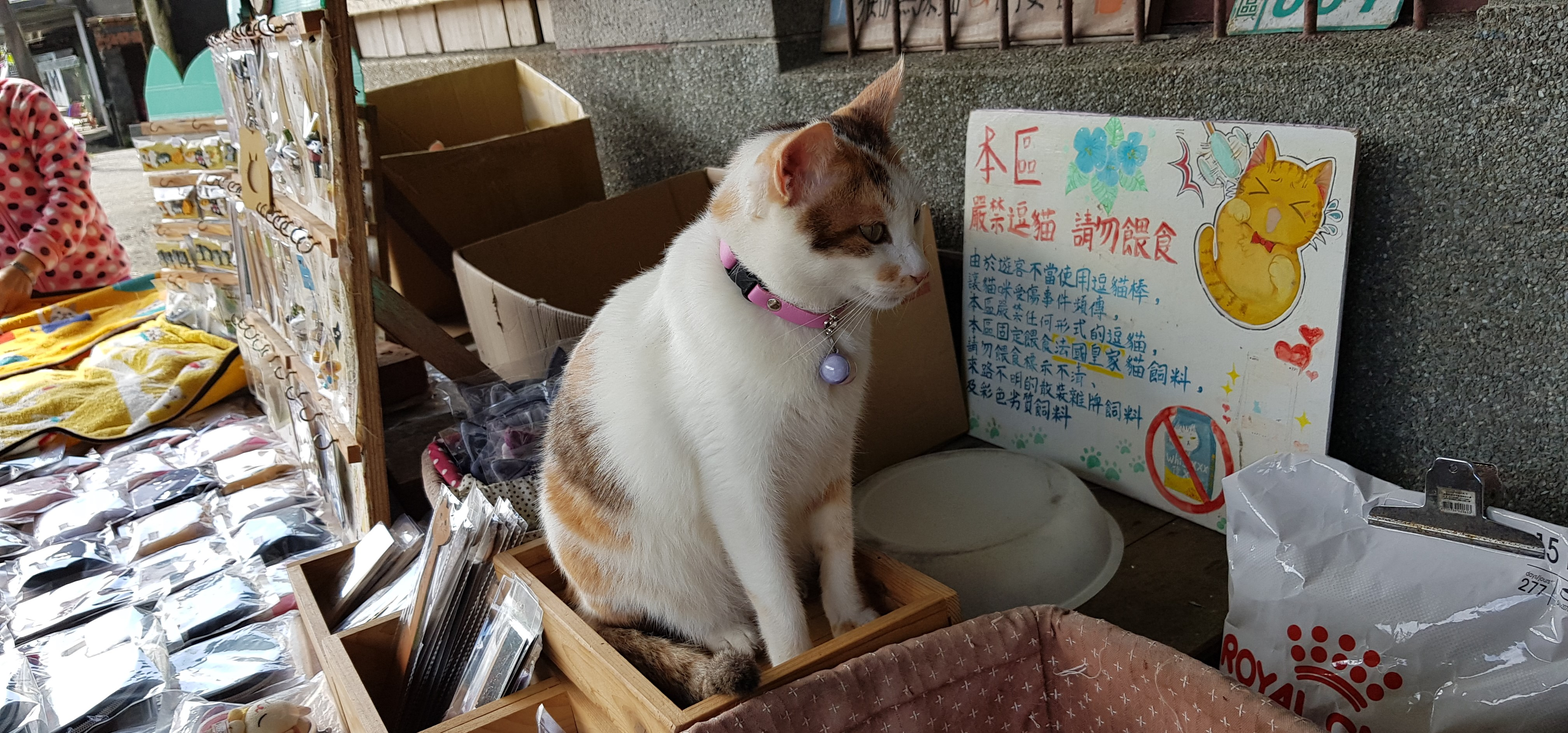
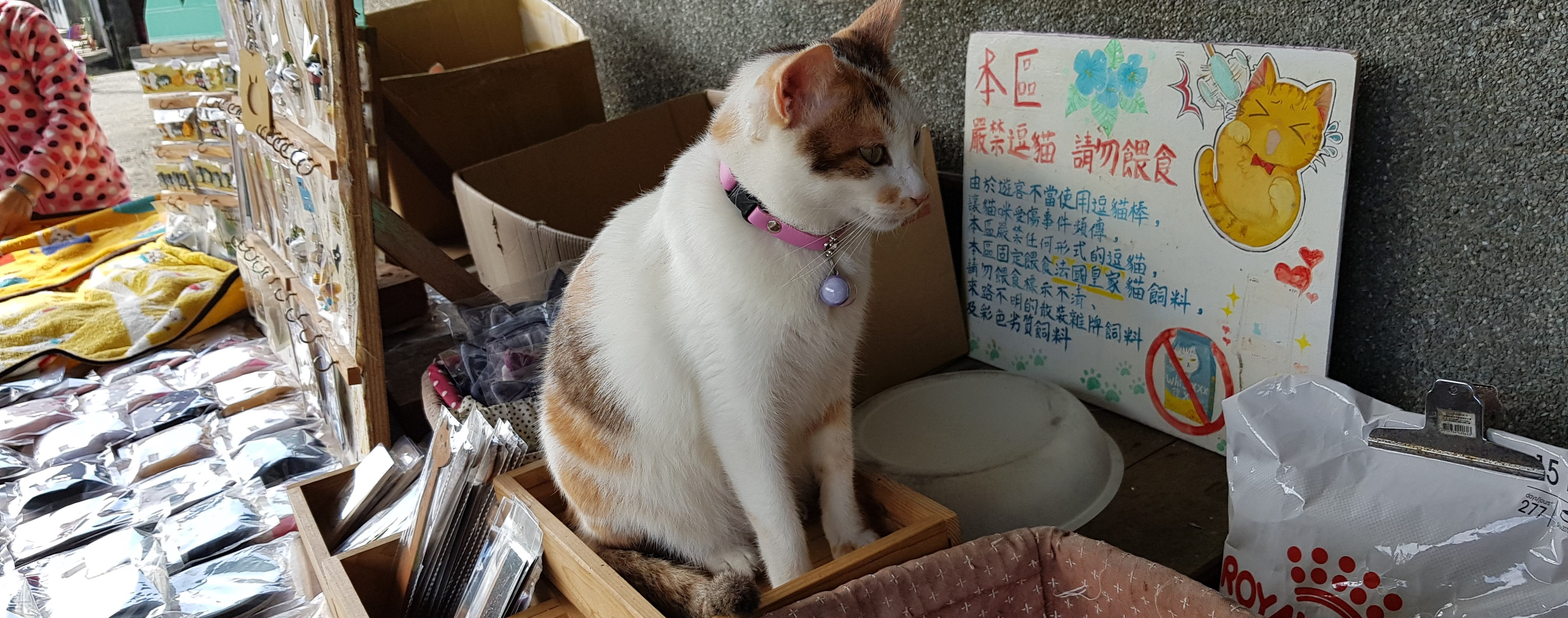
.

diff --git a/app/src/main/webapp/html/main.html b/app/src/main/webapp/html/main.html
@@ -13,24 +13,41 @@
 <body>
 <header id="header"></header>
 <div class="wrap">
-<img src="../images/Screenshot_2017-01-05-23-08-49.png" class="img-fluid width:100%;"
+<img src="../images/20180115_121333.jpg" class="img-fluid width:100%;"
 style="filter:alpha(opacity=60); opacity:0.6; -moz-opacity:0.6;">
   <div class="text-group">
     <p style="font-size: 50px;">펫토피아</p>
     <p style="font-size: 30px;">우리 아이들의 이야기</p>
-    <p>동네 커뮤니티로 정보를 나누고, 수다 떨며,<br>
-    같이 산책할 내 반려동물의 친구를 사귀어 보세요.</p> 
+    <p>동네 커뮤니티로 정보를 나누고, 수다 떨며<br>
+    같이 산책할 내 반려동물의 친구를 사귀어 보세요</p> 
   </div>
 </div>
 
 <div class="container">
     <section class="container_section01">
+    병원검색
     </section>
+    
     <section class="container_section02">
+      <div class="container_left01">
+      마이펫1
+      </div>
+      <div class="container_right01">
+      마이펫2
+      </div>
     </section>
+    
     <section class="container_section03">
+    나눔장터
     </section>
+    
     <section class="container_section04">
+      <div class="container_left02">
+      스토리
+      </div>
+      <div class="container_right02">
+      커뮤
+      </div>
     </section>
 </div>
 

diff --git a/app/src/main/webapp/css/layout.css b/app/src/main/webapp/css/layout.css
@@ -1,28 +1,34 @@
 @charset "UTF-8";
 @import url('https://fonts.googleapis.com/css2?family=Noto+Sans+KR:wght@100;300;400;500;700;900&display=swap');
-@import url('https://fonts.googleapis.com/css2?family=Jua&display=swap');
+/*@import url('https://fonts.googleapis.com/css2?family=Jua&display=swap');*/
 
- .navbar-brand {
-	  width: 180px;
-	  height: 45px;
-	
-	  font-family: 'Jua','Noto Sans KR', sans-serif;
-	  font-style: normal;
-	  font-weight: bold;
-	  font-size: 40px;
-	  line-height: 30px;
-	  text-align: center;
+ .navbar-brand-main {
+    width: 250px;
+    text-align: center;
+  }
+  
+  .navbar-brand {
+    width: 120px;
+    height: 45px;
+  
+    font-family: 'Noto Sans KR', sans-serif;
+    font-style: normal;
+    font-weight: bold;
+    line-height: 30px;
+    text-align: left;
+    margin-left: 1%;
   }
   
   .nav-item {
     font-family: 'Noto Sans KR', sans-serif;
+    font-size: 20px;    
     font-weight: bold;
   }
 
   .wrap { 
-	  position: relative; 
-	  background-color: rgba(0, 0, 0, 0.8);
-	}
+    position: relative; 
+    background-color: rgba(0, 0, 0, 0.8);
+  }
 
   .text-group { 
     position: absolute; 

diff --git a/app/src/main/webapp/html/header.html b/app/src/main/webapp/html/header.html
@@ -4,7 +4,7 @@
 <meta charset="UTF-8">
 <link href="https://cdn.jsdelivr.net/npm/bootstrap@5.0.1/dist/css/bootstrap.min.css" rel="stylesheet" integrity="sha384-+0n0xVW2eSR5OomGNYDnhzAbDsOXxcvSN1TPprVMTNDbiYZCxYbOOl7+AMvyTG2x" crossorigin="anonymous">
 <script src="https://cdn.jsdelivr.net/npm/bootstrap@5.0.1/dist/js/bootstrap.bundle.min.js" integrity="sha384-gtEjrD/SeCtmISkJkNUaaKMoLD0//ElJ19smozuHV6z3Iehds+3Ulb9Bn9Plx0x4" crossorigin="anonymous"></script>
-<link rel="stylesheet" type="text/css" href="../css/common3.css">
+<link rel="stylesheet" type="text/css" href="../css/layout.css">
 </head>
 <body>
 <nav class="navbar navbar-expand-lg navbar-dark" style="background-color: #FFADAD;">

diff --git a/app/src/main/webapp/html/footer.html b/app/src/main/webapp/html/footer.html
@@ -4,7 +4,7 @@
 <meta charset="UTF-8">
 <link href="https://cdn.jsdelivr.net/npm/bootstrap@5.0.1/dist/css/bootstrap.min.css" rel="stylesheet" integrity="sha384-+0n0xVW2eSR5OomGNYDnhzAbDsOXxcvSN1TPprVMTNDbiYZCxYbOOl7+AMvyTG2x" crossorigin="anonymous">
 <script src="https://cdn.jsdelivr.net/npm/bootstrap@5.0.1/dist/js/bootstrap.bundle.min.js" integrity="sha384-gtEjrD/SeCtmISkJkNUaaKMoLD0//ElJ19smozuHV6z3Iehds+3Ulb9Bn9Plx0x4" crossorigin="anonymous"></script>
-<link rel="stylesheet" type="text/css" href="../css/common3.css">
+<link rel="stylesheet" type="text/css" href="../css/layout.css">
 </head>
 <body>
 <div id="footer" class="jumbotron jumbotron=fluid">

diff --git a/app/src/main/webapp/css/main.css b/app/src/main/webapp/css/main.css
@@ -23,6 +23,7 @@
 
 .container_section02 {
     /* Take full size */
+    display: flex;
     height: 200px;
     width: 100%;
     border: 5px solid lightgray;
@@ -37,9 +38,29 @@
 
 .container_section04 {
     /* Take full size */
+    display: flex;
     height: 400px;
     width: 100%;
     border: 5px solid lightgray;
 }
 
 
+.container_left01 {
+  width: 30%;
+  border: 5px solid #808000;
+}
+
+.container_right01 {
+    flex: 1;
+    border: 5px solid #004080;
+}
+
+.container_left02 {
+    flex: 1;
+    border: 5px solid #808000;
+}
+
+.container_right02 {
+    flex: 1;
+    border: 5px solid #004080;
+}
